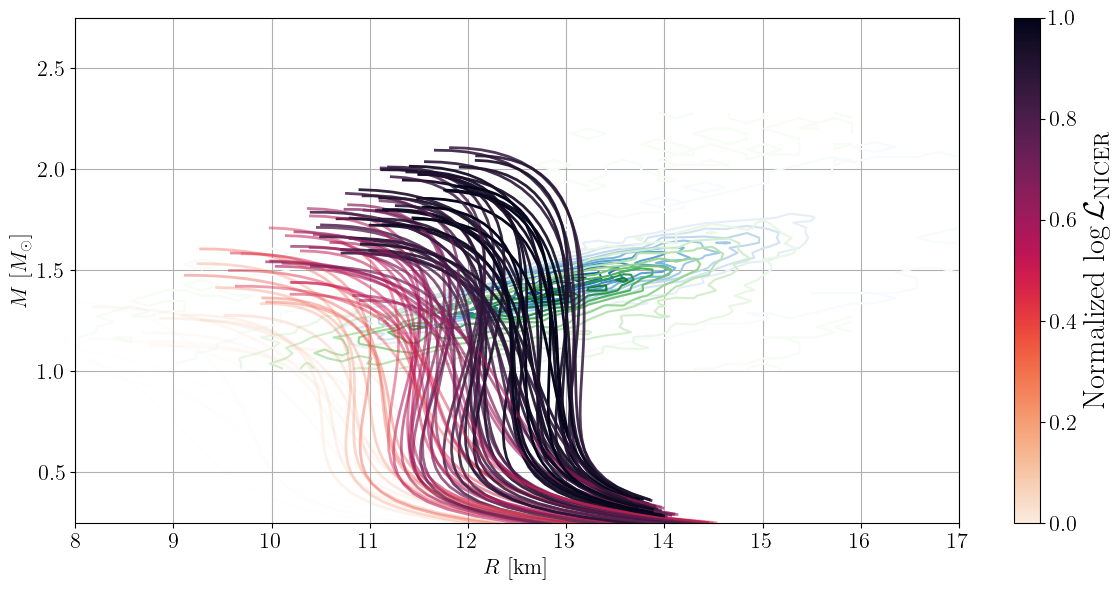
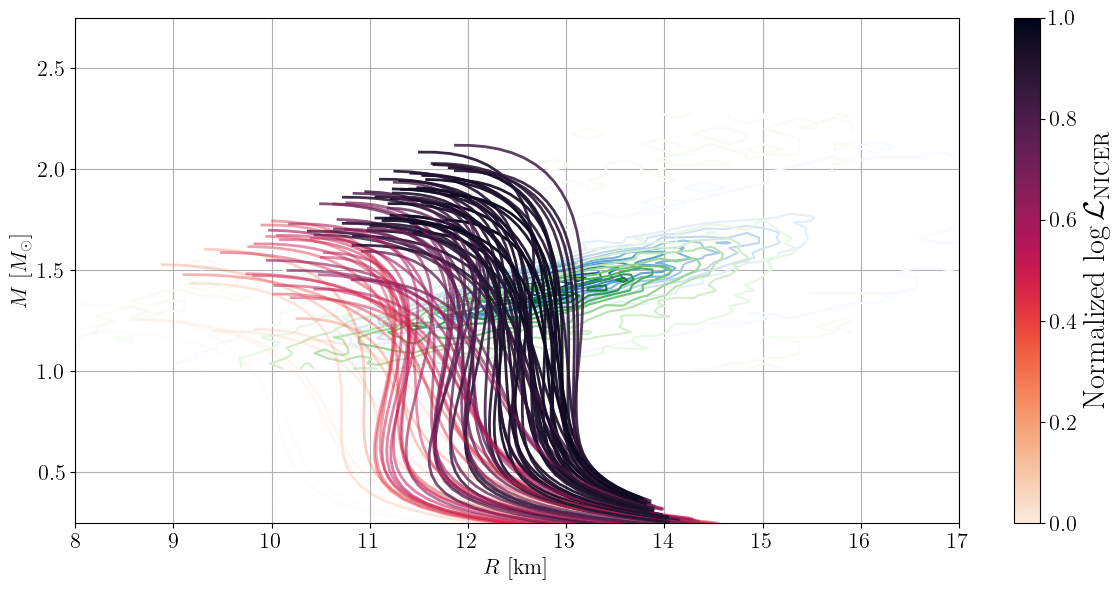
New jose seems OK?

Changed region(s): [[0.1519, 0.2441, 0.6381, 0.8847]]

diff --git a/NICER/playground_NICER.py b/NICER/playground_NICER.py
@@ -6,18 +6,18 @@ Playground for NICER inference: we sample some individual parameters, then solve
 ### PREAMBLE ###
 ################
 
-import psutil
-p = psutil.Process()
-p.cpu_affinity([0])
-import os
-os.environ["CUDA_VISIBLE_DEVICES"] = "3"
-os.environ["XLA_PYTHON_CLIENT_MEM_FRACTION"] = "0.10"
+# import psutil
+# p = psutil.Process()
+# p.cpu_affinity([0])
+# import os
+# os.environ["CUDA_VISIBLE_DEVICES"] = "3"
+# os.environ["XLA_PYTHON_CLIENT_MEM_FRACTION"] = "0.10"
 
 import os
 import tqdm
 import time
 import numpy as np
-np.random.seed(43) # for reproducibility
+np.random.seed(42) # for reproducibility
 import matplotlib.pyplot as plt
 import matplotlib as mpl
 import seaborn as sns
@@ -144,7 +144,7 @@ likelihood = NICER_utils.NICERLikelihood(sampled_param_names, NBREAK_NSAT)
 
 N = 100
 
-jax_key = jax.random.PRNGKey(42)
+jax_key = jax.random.PRNGKey(43)
 
 for i in tqdm.tqdm(range(N)):
     

diff --git a/NICER/inference_NICER.py b/NICER/inference_NICER.py
@@ -5,12 +5,12 @@ Full-scale NICER inference: we will use jim as flowMC wrapper
 ################
 ### PREAMBLE ###
 ################
-import psutil
-p = psutil.Process()
-p.cpu_affinity([0])
-import os 
-os.environ["CUDA_VISIBLE_DEVICES"] = "3"
-os.environ["XLA_PYTHON_CLIENT_MEM_FRACTION"] = "0.15"
+# import psutil
+# p = psutil.Process()
+# p.cpu_affinity([0])
+# import os 
+# os.environ["CUDA_VISIBLE_DEVICES"] = "3"
+# os.environ["XLA_PYTHON_CLIENT_MEM_FRACTION"] = "0.15"
 
 import tqdm
 import time
@@ -154,7 +154,7 @@ production_kwargs = {"n_loop_training": 10,
 jim = Jim(likelihood,
           prior,
           local_sampler_arg = local_sampler_arg,
-          **production_kwargs)
+          **test_kwargs)
 
 jim.sample(jax.random.PRNGKey(0))
 jim.print_summary()

diff --git a/NICER/utils.py b/NICER/utils.py
@@ -157,7 +157,8 @@ class NICERLikelihood(LikelihoodBase):
         cs2grids = jnp.array([params[f"cs2_CSE_{i}"] for i in range(self.nb_CSE)])
         
         # Create the EOS, ignore mu and cs2 (final 2 outputs)
-        eos_tuple, _, _ = self.eos.construct_eos(NEP, ngrids, cs2grids)
+        ns, ps, hs, es, dloge_dlogps, _, _ = self.eos.construct_eos(NEP, ngrids, cs2grids)
+        eos_tuple = (ns, ps, hs, es, dloge_dlogps)
         
         # Solve the TOV equations
         _, masses_EOS, radii_EOS, _ = self.construct_family_lambda(eos_tuple)
